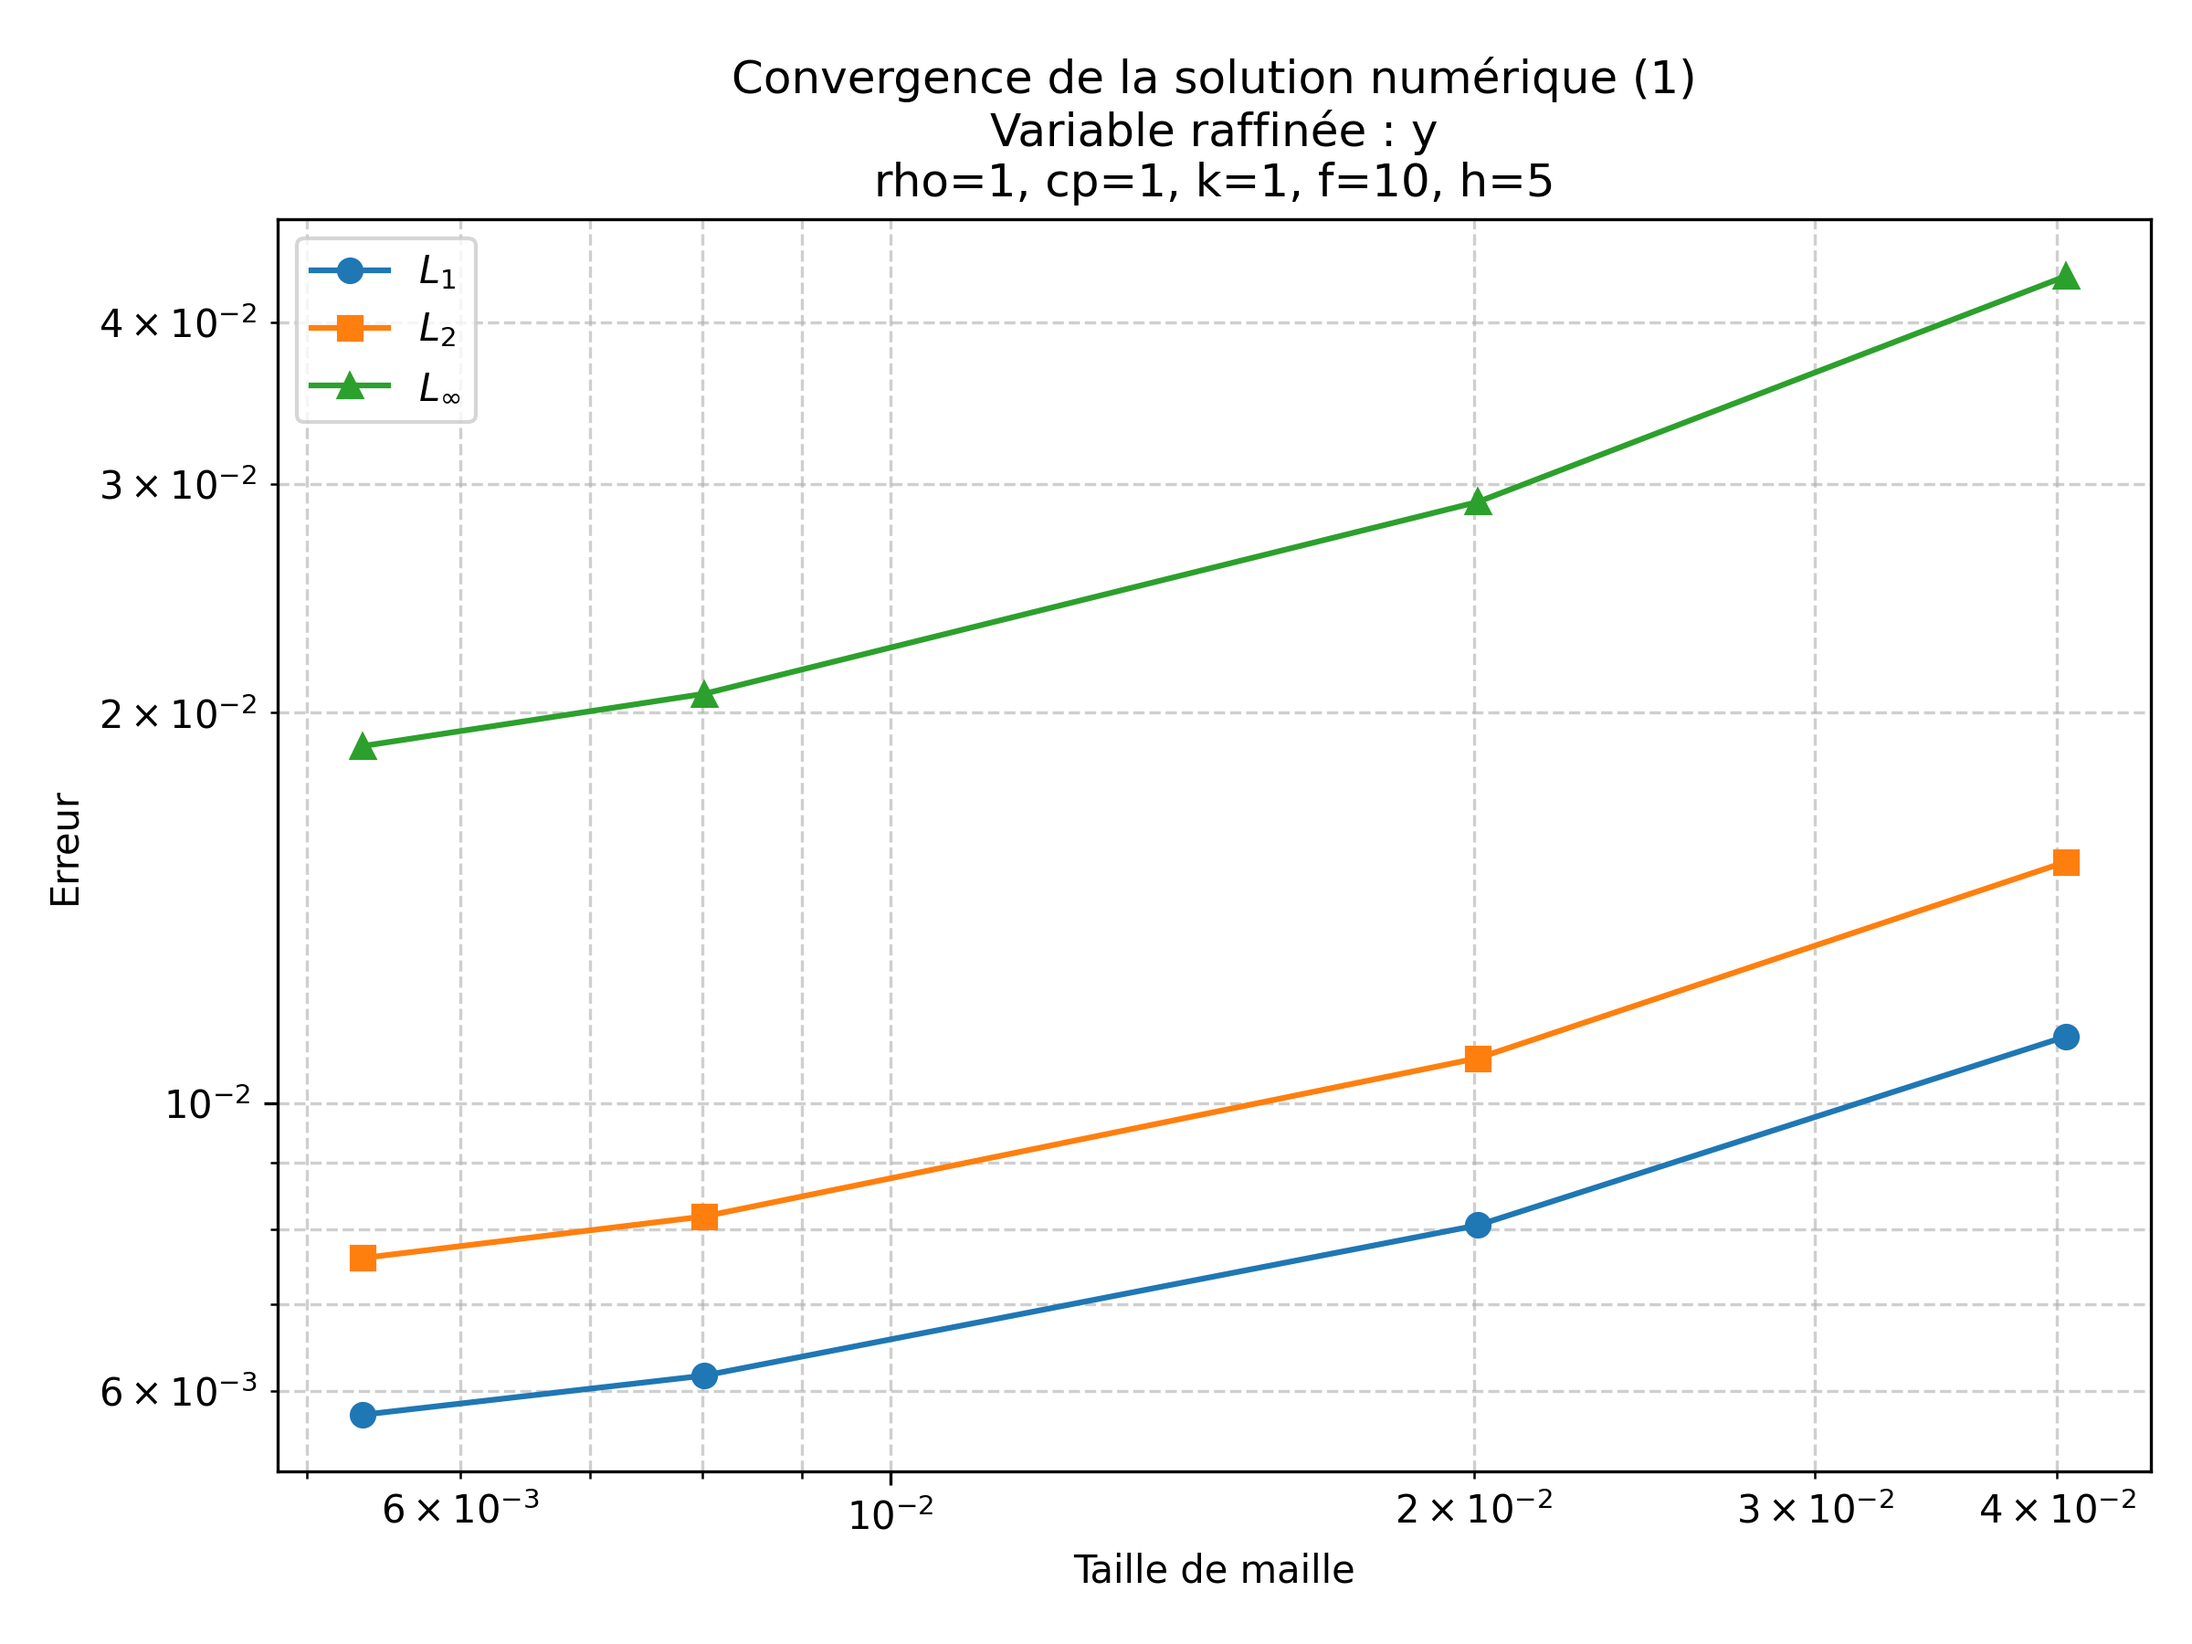
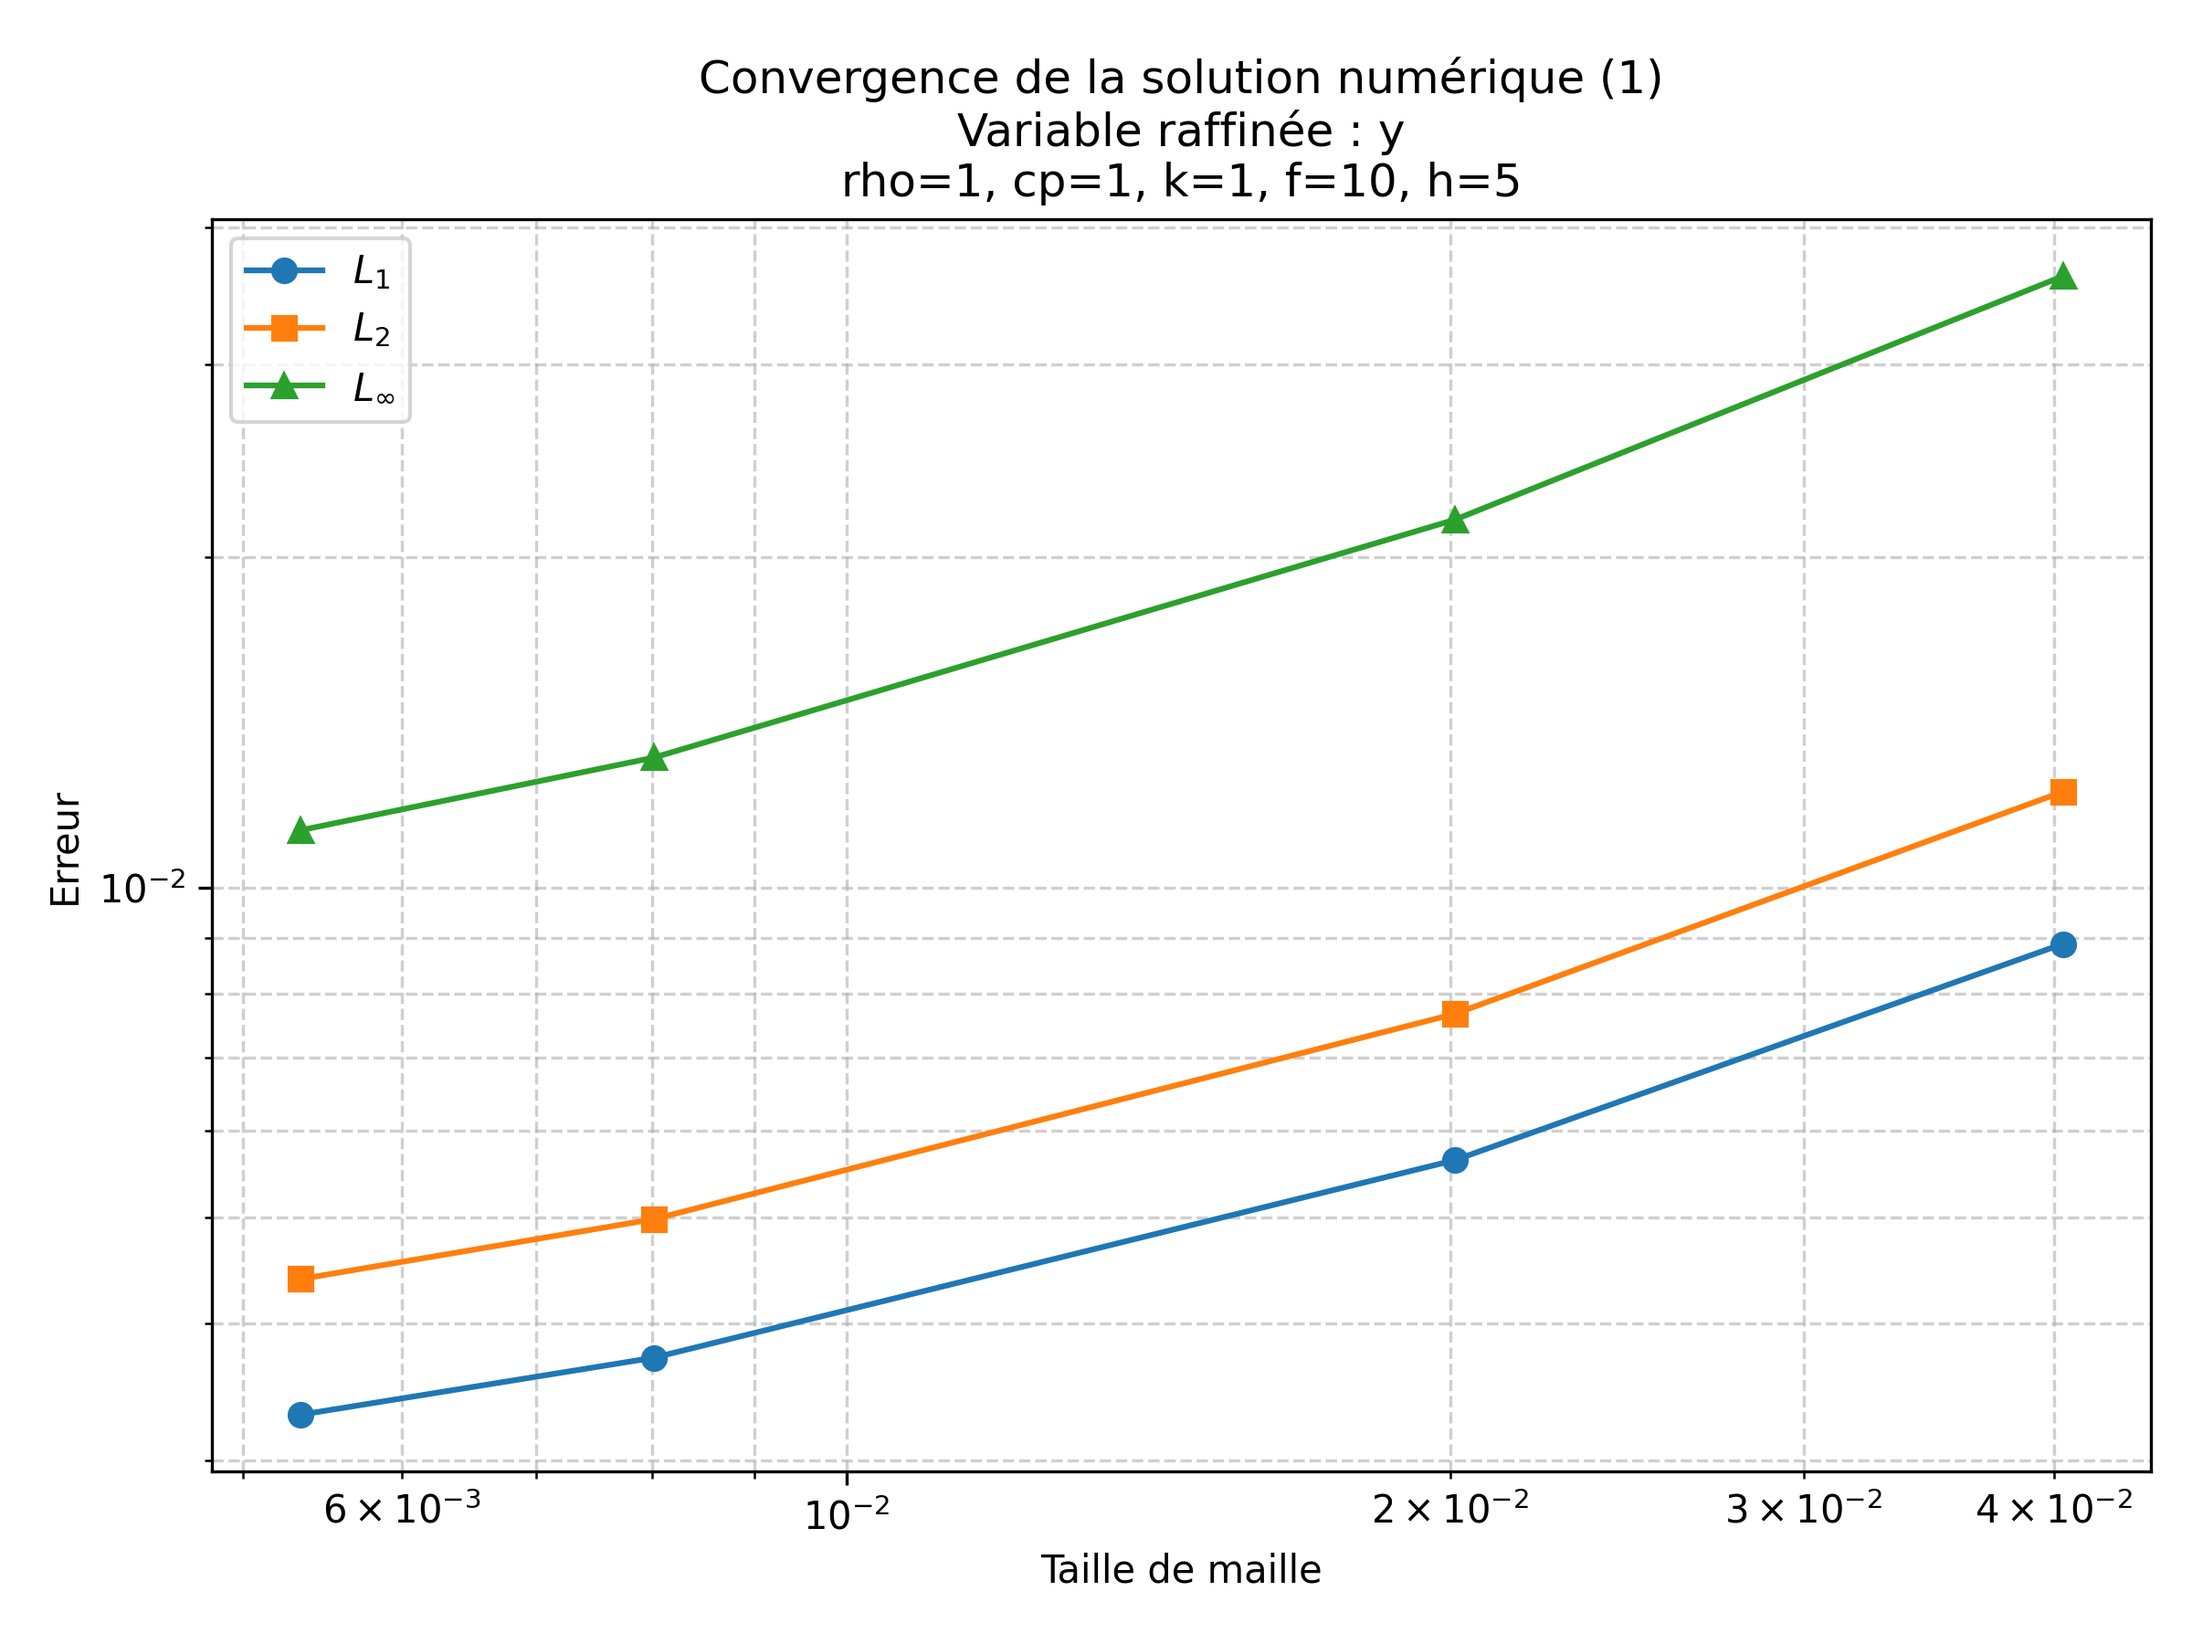
implémentation pour Ordre 2

diff --git a/Projet/src/solver.py b/Projet/src/solver.py
@@ -145,7 +145,8 @@ def solver_first_order(input_dict, sym_test = False, source_mms = None,
 
     return T
 
-def solver_second_order(input_dict, sym_test = False, source_mms = None):
+def solver_second_order(input_dict, sym_test = False, source_mms = None,
+                        bc_left=None, bc_right=None, bc_bottom=None, bc_top_tinf=None):
 
     b = input_dict['b']
     c = input_dict['c']
@@ -181,18 +182,31 @@ def solver_second_order(input_dict, sym_test = False, source_mms = None):
             if j == 0:
                 #application d'une condition de dirichlet
                 A[k,k] = 1
-                rhs[k] = temp_a
+                if bc_left is None:
+                    rhs[k] = temp_a
+                else:
+                    rhs[k] = bc_left(y[i])
             
             elif j == nx-1:
                 #application d'une condition de dirichlet
                 A[k,k] = 1
-                rhs[k] = temp_b
+                if bc_right is None:
+                    rhs[k] = temp_b
+                else:
+                    rhs[k] = bc_right(y[i])
 
             elif not sym_test and i == 0:
                 #application condition de neumman (symmétrie)
-                A[k,k] = -3
-                A[k, k+nx] = 4
-                A[k, k+2*nx] = -1
+                if bc_bottom is None:
+                    A[k,k] = -3
+                    A[k, k+nx] = 4
+                    A[k, k+2*nx] = -1
+                    rhs[k] = 0
+                else:
+                    A[k, k] = -3.0 / (2*dy)
+                    A[k, k + nx] = 4.0 / (2*dy)
+                    A[k, k + 2*nx] = -1.0 / (2*dy)
+                    rhs[k] = bc_bottom(x[j])
             
             elif sym_test and i == 0:
                 #application condition de robin
@@ -206,7 +220,10 @@ def solver_second_order(input_dict, sym_test = False, source_mms = None):
                 A[k, k] =  3*kappa + 2*dy*h
                 A[k, k-nx] = -4*kappa
                 A[k, k-2*nx] =  1*kappa
-                rhs[k] =  2*dy*h*tinf
+                if bc_top_tinf is None:
+                    rhs[k] =  2*dy*h*tinf
+                else:
+                    rhs[k] =  2*dy*h*bc_top_tinf(x[j])
 
             else:
                 #noeud intérieur
@@ -216,7 +233,10 @@ def solver_second_order(input_dict, sym_test = False, source_mms = None):
                 A[k, k+1] = kappa/dx**2
                 A[k, k-nx] = kappa/dy**2
                 A[k, k+nx] = kappa/dy**2 
-                rhs[k] = -f
+                if source_mms is None:
+                    rhs[k] = -f
+                else:
+                    rhs[k] = -(f + source_mms(x[j], y[i]))
             
     A = A.tocsr()
     T = spsolve(A, rhs)
@@ -231,7 +251,7 @@ def mms_Temperature(input_dict, MMS_func):
 
     x = np.linspace(0,b,nx)
     y = np.linspace(0,c,ny)
-    
+
     T_mms_vec = np.zeros(nx*ny)
 
     for i in range(ny):
